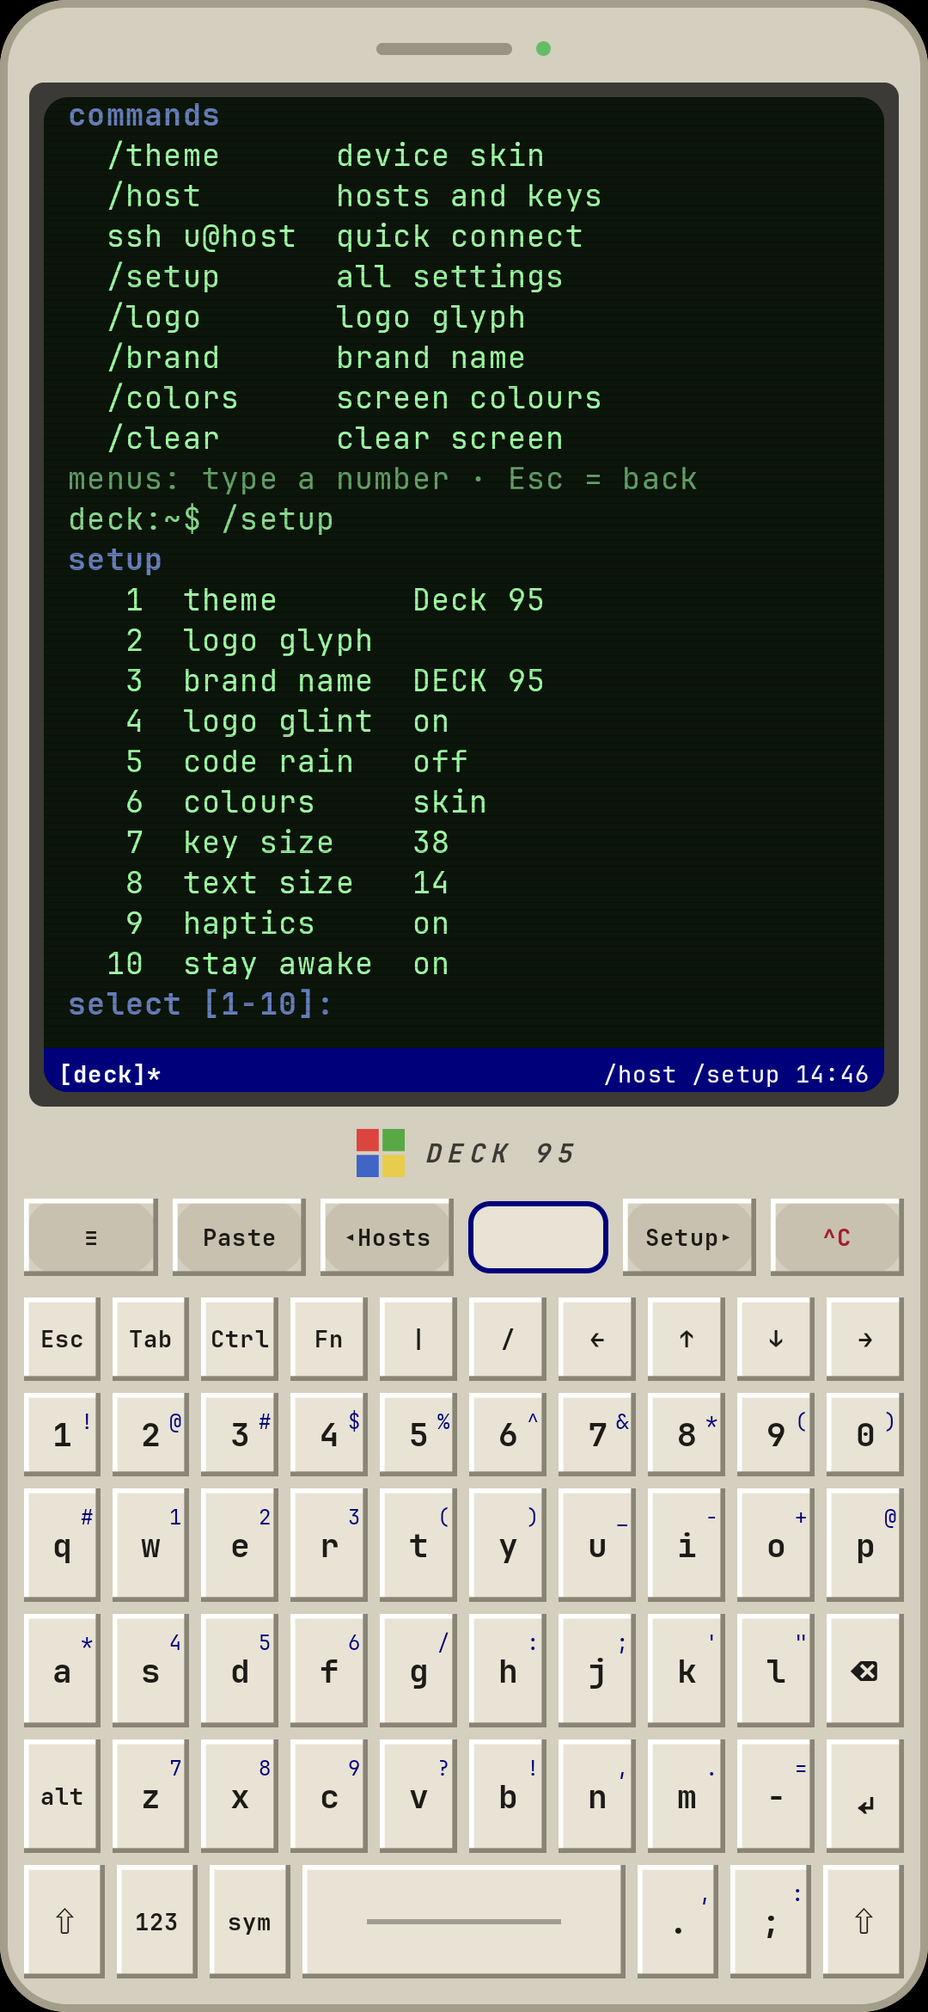
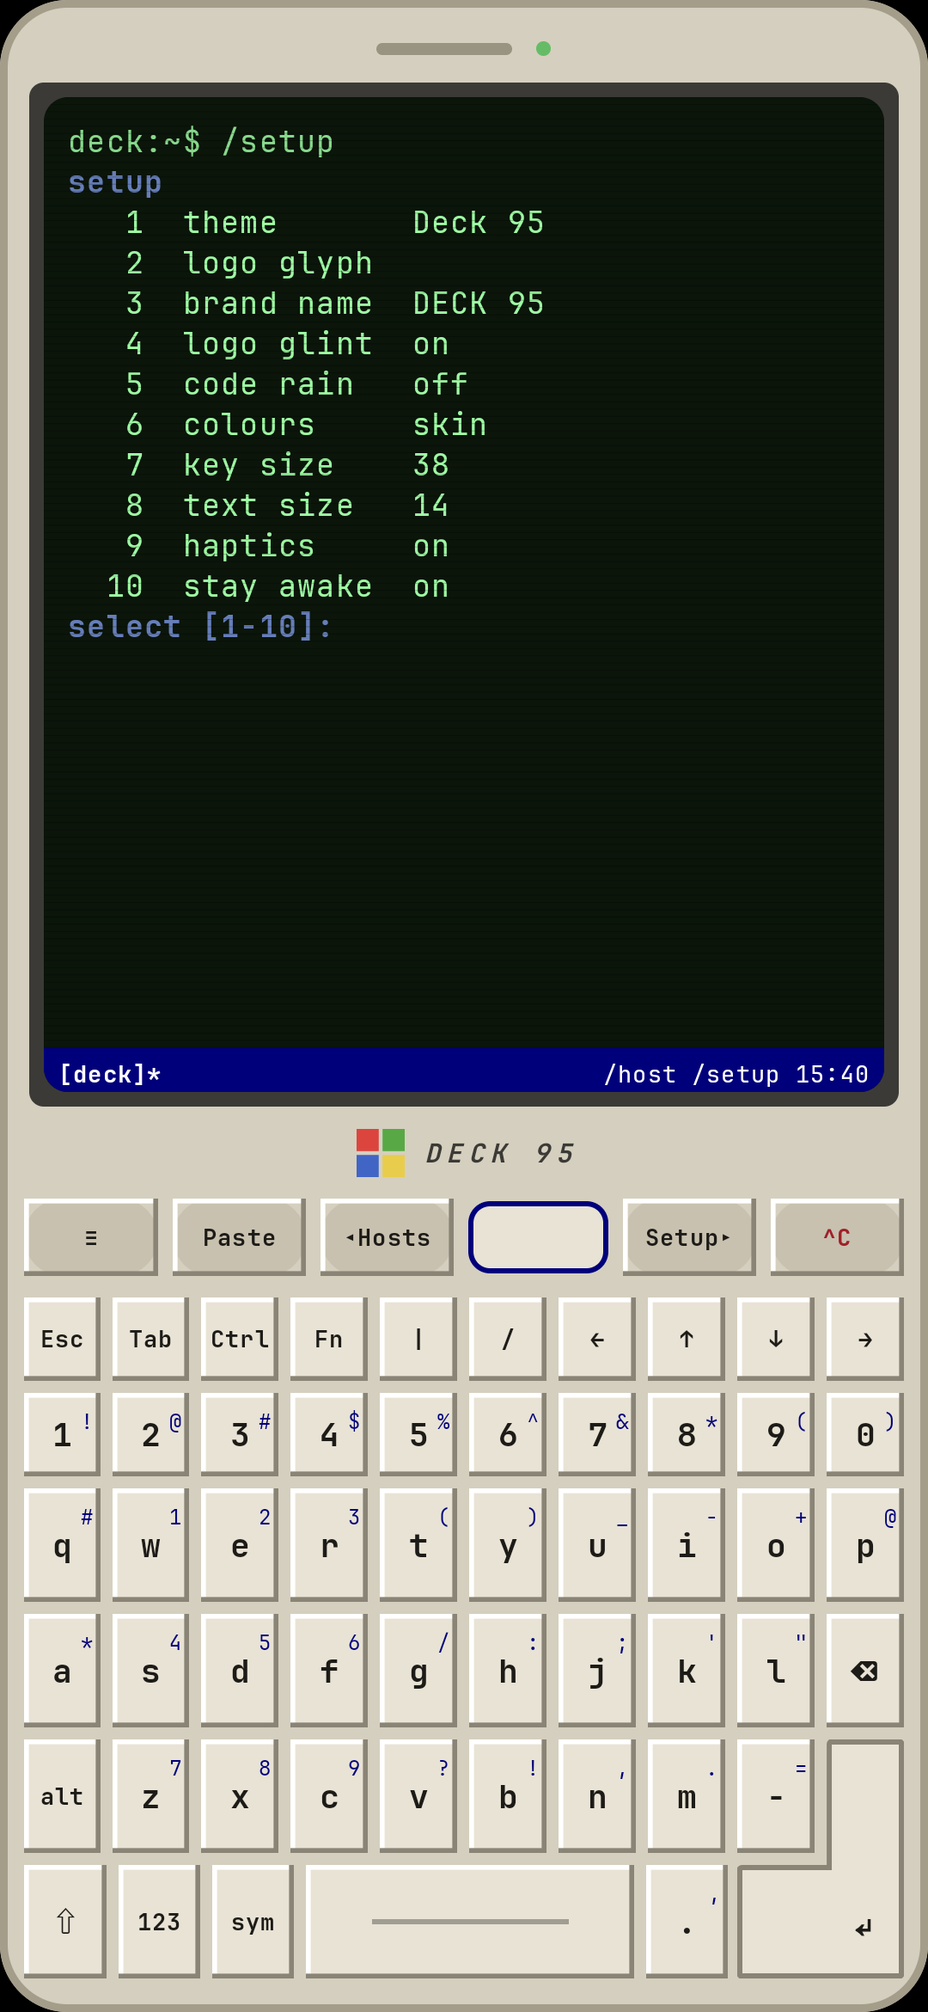
2.1: L-shaped Enter, optional key click, glowing key-press feedback

diff --git a/app/src/main/java/com/deckssh/app/ui/Keyboard.kt b/app/src/main/java/com/deckssh/app/ui/Keyboard.kt
@@ -1,5 +1,7 @@
 package com.deckssh.app.ui
 
+import android.content.Context
+import android.media.AudioManager
 import android.view.HapticFeedbackConstants
 import androidx.compose.animation.core.Animatable
 import androidx.compose.animation.core.FastOutSlowInEasing
@@ -58,6 +60,18 @@ import androidx.compose.ui.unit.Dp
 import androidx.compose.ui.unit.dp
 import androidx.compose.ui.unit.sp
 import androidx.compose.ui.zIndex
+import androidx.compose.foundation.layout.Spacer
+import androidx.compose.foundation.layout.fillMaxHeight
+import androidx.compose.foundation.shape.GenericShape
+import androidx.compose.ui.geometry.Rect
+import androidx.compose.ui.geometry.RoundRect
+import androidx.compose.ui.graphics.Path
+import androidx.compose.ui.graphics.PathOperation
+import androidx.compose.ui.graphics.drawOutline
+import androidx.compose.ui.layout.layout
+import androidx.compose.ui.unit.Constraints
+import androidx.compose.ui.platform.LocalDensity
+import kotlin.math.roundToInt
 import com.deckssh.app.input.InputRouter
 import com.deckssh.app.input.Spec
 import kotlinx.coroutines.Job
@@ -75,6 +89,8 @@ private sealed class K(val w: Float, val kind: Kind) {
     class M(val m: Mod, val label: String, w: Float = 1f) : K(w, Kind.Mod)
     class Raw(val label: String, val bytes: String, w: Float = 1f) : K(w, Kind.Mod)
     class Cmd(val cmd: String, val label: String, w: Float = 2f) : K(w, Kind.Cmd)
+    /** Empty cells the L-shaped Enter key reaches down into. */
+    class Gap(w: Float) : K(w, Kind.Key)
 }
 
 private val altMap = mapOf(
@@ -89,6 +105,8 @@ private fun nums(s: String) = s.map { K.Ch(it.toString(), kind = Kind.Num) }
 
 private val back = K.Sp(Spec.Back, "⌫", repeat = true)
 private val enter = K.Sp(Spec.Enter, "↵")
+/** Enter on the letter and symbol layers: an L that also covers the two cells below it (where ; and ⇧ were). */
+private val bigEnter = K.Sp(Spec.Enter, "↵")
 
 private class Layers {
     var shift by mutableIntStateOf(0)
@@ -138,7 +156,7 @@ private class Layers {
     }
 
     private val bottom = listOf(
-        K.M(Mod.Shift, "⇧"), K.M(Mod.Num, "123"), K.M(Mod.Sym, "sym"), K.Ch(" ", w = 4f), K.Ch(".", ","), K.Ch(";", ":"), K.M(Mod.Shift, "⇧"),
+        K.M(Mod.Shift, "⇧"), K.M(Mod.Num, "123"), K.M(Mod.Sym, "sym"), K.Ch(" ", w = 4f), K.Ch(".", ","), K.Gap(2f),
     )
 
     /** Samsung-style number row over the letters; hold a digit for its shifted symbol. */
@@ -158,14 +176,14 @@ private class Layers {
             digits,
             syms("`~|\\{}[]<>"),
             syms("=&%^#@*()") + back,
-            listOf(K.M(Mod.Alt, "alt")) + syms("!?;:'\",+") + enter,
+            listOf(K.M(Mod.Alt, "alt")) + syms("!?;:'\",+") + bigEnter,
             bottom,
         )
         else -> listOf(
             digits,
             letters("qwertyuiop"),
             letters("asdfghjkl") + back,
-            listOf(K.M(Mod.Alt, "alt")) + letters("zxcvbnm") + K.Ch("-", "=") + enter,
+            listOf(K.M(Mod.Alt, "alt")) + letters("zxcvbnm") + K.Ch("-", "=") + bigEnter,
             bottom,
         )
     }
@@ -181,12 +199,25 @@ fun DeckKeyboard(
     skin: Skin,
     keyHeight: Dp,
     haptics: Boolean,
+    click: Boolean,
     onCommand: (String) -> Unit,
     modifier: Modifier = Modifier,
 ) {
     val st = remember { Layers() }
     val view = LocalView.current
     val buzz = { if (haptics) view.performHapticFeedback(HapticFeedbackConstants.KEYBOARD_TAP) }
+    val audio = remember { view.context.getSystemService(Context.AUDIO_SERVICE) as AudioManager }
+    /** The system keyboard's own click sounds; the two-argument call plays even when touch sounds are off in Settings. */
+    fun sound(k: K?) {
+        if (!click) return
+        val fx = when {
+            k is K.Sp && k.s == Spec.Enter -> AudioManager.FX_KEYPRESS_RETURN
+            k is K.Sp && k.s == Spec.Back -> AudioManager.FX_KEYPRESS_DELETE
+            k is K.Ch && k.c == " " -> AudioManager.FX_KEYPRESS_SPACEBAR
+            else -> AudioManager.FX_KEYPRESS_STANDARD
+        }
+        audio.playSoundEffect(fx, 1f)
+    }
     val bb = skin.cap == CapStyle.BlackBerry
 
     fun fire(k: K, long: Boolean) {
@@ -202,6 +233,7 @@ fun DeckKeyboard(
             is K.Raw -> { router.raw(k.bytes); st.consume() }
             is K.M -> st.tap(k.m)
             is K.Cmd -> { st.menu = false; onCommand(k.cmd) }
+            is K.Gap -> {}
         }
     }
 
@@ -212,8 +244,12 @@ fun DeckKeyboard(
         else -> k.c
     }
 
+    val gapX = if (bb) 3.dp else 5.dp
+    // Space between key rows: BlackBerry has a 7 dp chrome fret, the others a plain 5 dp gap.
+    val gapY = if (bb) 7.dp else 5.dp
+    val ell = with(LocalDensity.current) { Ell(gapX.toPx(), gapY.toPx()) }
     Column(modifier.fillMaxWidth().padding(horizontal = 10.dp), verticalArrangement = Arrangement.spacedBy(if (bb) 0.dp else 5.dp)) {
-        ControlStrip(skin, st.menu, buzz, onMenu = { st.tap(Mod.Menu) }, onCommand = onCommand, onArrow = { router.special(it, false, false) }, onRaw = { router.raw(it) })
+        ControlStrip(skin, st.menu, { buzz(); sound(null) }, onMenu = { st.tap(Mod.Menu) }, onCommand = onCommand, onArrow = { router.special(it, false, false) }, onRaw = { router.raw(it) })
         val all = listOf(st.topRow()) + st.rows()
         all.forEachIndexed { i, row ->
             if (bb) Box(Modifier.fillMaxWidth().padding(horizontal = 3.dp, vertical = 2.dp).height(3.dp).background(Fret, RoundedCornerShape(2.dp)))
@@ -223,8 +259,13 @@ fun DeckKeyboard(
                 st.layer == "num" -> keyHeight * 1.185f
                 else -> keyHeight
             }
-            Row(Modifier.fillMaxWidth().height(h), horizontalArrangement = Arrangement.spacedBy(if (bb) 3.dp else 5.dp)) {
+            // The row holding the L-shaped Enter draws over the row below, which leaves those cells empty.
+            Row(
+                Modifier.fillMaxWidth().height(h).zIndex(if (bigEnter in row) 1f else 0f),
+                horizontalArrangement = Arrangement.spacedBy(gapX),
+            ) {
                 row.forEach { k ->
+                    if (k is K.Gap) { Spacer(Modifier.weight(k.w)); return@forEach }
                     val level = (k as? K.M)?.let { st.level(it.m) } ?: 0
                     val label = when (k) {
                         is K.Ch -> display(k)
@@ -232,12 +273,14 @@ fun DeckKeyboard(
                         is K.M -> if (k.m == Mod.Shift && st.shift == 2) "⇪" else k.label
                         is K.Raw -> k.label
                         is K.Cmd -> k.label
+                        is K.Gap -> ""
                     }
                     val sup = (k as? K.Ch)?.alt?.let { if (st.alt > 0) k.c else it }?.takeIf { i > 0 }
                     KeyCap(
                         k = k, label = label, sup = sup, level = level, small = i == 0 || label.length > 1,
                         bubble = if (k is K.Ch) (if (k.c == " ") "␣" else label) else null,
-                        skin = skin, buzz = buzz, onFire = { long -> fire(k, long) },
+                        skin = skin, buzz = { buzz(); sound(k) }, onFire = { long -> fire(k, long) },
+                        ell = if (k === bigEnter) ell else null,
                     )
                 }
             }
@@ -330,7 +373,7 @@ private fun Modifier.bevel(inverted: Boolean): Modifier = drawBehind {
 @Composable
 private fun RowScope.KeyCap(
     k: K, label: String, sup: String?, level: Int, small: Boolean, bubble: String?,
-    skin: Skin, buzz: () -> Unit, onFire: (Boolean) -> Unit,
+    skin: Skin, buzz: () -> Unit, onFire: (Boolean) -> Unit, ell: Ell? = null,
 ) {
     val scope = rememberCoroutineScope()
     var pressed by remember { mutableStateOf(false) }
@@ -338,6 +381,8 @@ private fun RowScope.KeyCap(
     val bubbleText by rememberUpdatedState(bubble)
     val ring = remember { Animatable(1f) }
     val pop = remember { Animatable(1f) }
+    // Lights the key in the skin's glow colour on press, then fades, so even a quick tap is easy to see.
+    val lit = remember { Animatable(0f) }
     var shownBubble by remember { mutableStateOf("") }
     val press by animateFloatAsState(if (pressed) 1f else 0f, tween(if (pressed) 40 else 110), label = "press")
     val measurer = rememberTextMeasurer()
@@ -355,18 +400,26 @@ private fun RowScope.KeyCap(
         k.kind == Kind.Nav -> skin.glow
         else -> skin.keyFg
     }
-    val shape = if (skin.cap == CapStyle.BlackBerry) RoundedCornerShape(4.dp, 4.dp, 11.dp, 11.dp) else RoundedCornerShape(skin.keyRadius)
+    val corner = if (skin.cap == CapStyle.BlackBerry) 6.dp else skin.keyRadius
+    val shape = when {
+        ell != null -> ell.shape(with(LocalDensity.current) { corner.toPx() })
+        skin.cap == CapStyle.BlackBerry -> RoundedCornerShape(4.dp, 4.dp, 11.dp, 11.dp)
+        else -> RoundedCornerShape(skin.keyRadius)
+    }
 
     Box(
         Modifier
             .weight(k.w)
             .fillMaxSize()
+            .then(if (ell != null) Modifier.ellSize(ell) else Modifier)
             .zIndex(if (pressed || pop.value < 1f) 1f else 0f)
             .semantics { contentDescription = if (k is K.Ch && k.c == " ") "space" else label }
             .drawWithContent {
                 drawContent()
                 // Glow ring that spreads out from the key on every press.
-                if (ring.value < 1f) {
+                if (ring.value < 1f && ell != null) {
+                    drawOutline(shape.createOutline(size, layoutDirection, this), skin.glow.copy(alpha = (1f - ring.value) * 0.9f), style = Stroke((2 + ring.value * 4).dp.toPx()))
+                } else if (ring.value < 1f) {
                     val g = ring.value * 8.dp.toPx()
                     drawRoundRect(
                         skin.glow.copy(alpha = (1f - ring.value) * 0.9f), Offset(-g, -g), Size(size.width + 2 * g, size.height + 2 * g),
@@ -388,7 +441,9 @@ private fun RowScope.KeyCap(
             .pointerInput(k) {
                 awaitEachGesture {
                     awaitFirstDown(requireUnconsumed = false)
+                    val downAt = System.currentTimeMillis()
                     pressed = true
+                    scope.launch { lit.snapTo(1f) }
                     buzz()
                     scope.launch { ring.snapTo(0f); ring.animateTo(1f, tween(320, easing = FastOutSlowInEasing)) }
                     bubbleText?.takeIf { it.isNotEmpty() }?.let { b ->
@@ -411,41 +466,59 @@ private fun RowScope.KeyCap(
                     }
                     val up = waitForUpOrCancellation()
                     job?.cancel()
-                    pressed = false
                     if (up != null && !handled) fire(false)
+                    // Hold the pressed look for at least 110 ms so a fast tap still shows the key going down.
+                    val left = 110 - (System.currentTimeMillis() - downAt)
+                    scope.launch {
+                        if (left > 0) delay(left)
+                        pressed = false
+                        lit.animateTo(0f, tween(320))
+                    }
                 }
             }
             .graphicsLayer {
-                translationY = press * 2.dp.toPx()
-                scaleX = 1f - press * 0.06f; scaleY = 1f - press * 0.06f
+                translationY = press * 3.dp.toPx()
+                scaleX = 1f - press * 0.1f; scaleY = 1f - press * 0.1f
             },
     ) {
         when (skin.cap) {
             CapStyle.Mech -> {
                 Box(Modifier.fillMaxSize().background(Color(0xFF0B0C09), shape).border(1.dp, if (level > 0) skin.glow else Color(0xFF3D4232), shape))
-                Box(Modifier.fillMaxSize().padding(start = 1.dp, end = 1.dp, top = 1.dp, bottom = (5 - 3 * press).dp).background(face, shape)) { Legend(label, sup, ink, small, skin) }
+                Box(Modifier.fillMaxSize().padding(start = 1.dp, end = 1.dp, top = 1.dp, bottom = (5 - 3 * press).dp).background(face, shape)) { Legend(label, sup, ink, small, skin, ell) }
             }
-            CapStyle.Bevel -> Box(Modifier.fillMaxSize().background(face, shape).bevel(pressed || level == 2)) { Legend(label, sup, ink, small, skin) }
+            CapStyle.Bevel -> Box(
+                Modifier.fillMaxSize().background(face, shape)
+                    .then(if (ell != null) Modifier.border(2.dp, if (pressed) Color.White else Color(0xFF8A8473), shape) else Modifier.bevel(pressed || level == 2)),
+            ) { Legend(label, sup, ink, small, skin, ell) }
             CapStyle.Neon -> Box(
                 Modifier.fillMaxSize().background(face, shape)
                     .border(1.dp, if (level > 0 || pressed) skin.glow else Color(0xFF0D4A1B), shape)
                     .drawBehind { if (level > 0 || press > 0f) drawRoundRect(skin.glow.copy(alpha = 0.18f + press * 0.2f), cornerRadius = CornerRadius(skin.keyRadius.toPx())) },
-            ) { Legend(label, sup, ink, small, skin) }
+            ) { Legend(label, sup, ink, small, skin, ell) }
             CapStyle.BlackBerry -> Box(
                 Modifier.fillMaxSize().background(face, shape)
                     .drawBehind { drawLine(Color.White.copy(alpha = 0.16f), Offset(6f, 1f), Offset(size.width - 6f, 1f), 1.dp.toPx()) }
                     .then(if (level > 0) Modifier.border(1.dp, skin.alt, shape) else Modifier),
-            ) { Legend(label, sup, ink, small, skin) }
+            ) { Legend(label, sup, ink, small, skin, ell) }
             CapStyle.Flat -> Box(
                 Modifier.fillMaxSize().background(face, shape).then(if (level > 0) Modifier.border(1.dp, skin.alt, shape) else Modifier),
-            ) { Legend(label, sup, ink, small, skin) }
+            ) { Legend(label, sup, ink, small, skin, ell) }
         }
-        if (press > 0f) Box(Modifier.fillMaxSize().background(Color.White.copy(alpha = press * 0.14f), shape))
+        if (lit.value > 0f) Box(
+            Modifier.fillMaxSize()
+                .background(skin.glow.copy(alpha = lit.value * 0.42f), shape)
+                .border(2.dp, skin.glow.copy(alpha = lit.value), shape),
+        )
     }
 }
 
 @Composable
-private fun androidx.compose.foundation.layout.BoxScope.Legend(label: String, sup: String?, ink: Color, small: Boolean, skin: Skin) {
+private fun androidx.compose.foundation.layout.BoxScope.Legend(label: String, sup: String?, ink: Color, small: Boolean, skin: Skin, ell: Ell? = null) {
+    // On the L-shaped Enter the arrow sits in the bottom-right cell.
+    if (ell != null) {
+        Box(Modifier.align(Alignment.BottomEnd).fillMaxWidth(0.5f).fillMaxHeight(0.5f)) { Legend(label, sup, ink, small, skin) }
+        return
+    }
     if (label.isEmpty()) {
         Box(Modifier.align(Alignment.Center).fillMaxWidth(0.6f).height(2.dp).background(skin.keyFg.copy(alpha = 0.35f)))
         return
@@ -459,4 +532,26 @@ private fun androidx.compose.foundation.layout.BoxScope.Legend(label: String, su
     if (sup != null) {
         Text(sup, Modifier.align(Alignment.TopEnd).padding(top = 1.dp, end = 3.dp), color = skin.alt, fontFamily = Mono, fontSize = 9.5.sp, maxLines = 1)
     }
+}
+
+/** Gaps between key cells in px, so the L-shaped Enter can span two cells across and two rows down. */
+private class Ell(val gx: Float, val gy: Float) {
+    /** Right column over both rows, plus the full bottom row: an ISO Enter key turned upside down. */
+    fun shape(corner: Float) = GenericShape { size, _ ->
+        val r = CornerRadius(corner)
+        val colW = (size.width - gx) / 2
+        val rowH = (size.height - gy) / 2
+        val column = Path().apply { addRoundRect(RoundRect(Rect(size.width - colW, 0f, size.width, size.height), r)) }
+        val bottom = Path().apply { addRoundRect(RoundRect(Rect(0f, size.height - rowH, size.width, size.height), r)) }
+        op(column, bottom, PathOperation.Union)
+    }
+}
+
+/** Lays the key out over its own cell, the cell to its left and both cells below, while taking only its own cell in the row. */
+private fun Modifier.ellSize(ell: Ell): Modifier = layout { m, c ->
+    val gx = ell.gx.roundToInt()
+    val w = c.maxWidth * 2 + gx
+    val h = c.maxHeight * 2 + ell.gy.roundToInt()
+    val p = m.measure(Constraints.fixed(w, h))
+    layout(c.maxWidth, c.maxHeight) { p.place(-(c.maxWidth + gx), 0) }
 }

diff --git a/app/src/main/java/com/deckssh/app/ui/Console.kt b/app/src/main/java/com/deckssh/app/ui/Console.kt
@@ -145,6 +145,7 @@ class Console {
             "glint" -> toggle("logo glint", store.glint, store::changeGlint)
             "rain" -> toggle("code rain", store.rain, store::changeRain)
             "haptics" -> toggle("haptics", store.haptics, store::changeHaptics)
+            "click", "sound" -> toggle("key click", store.click, store::changeClick)
             "awake" -> toggle("keep screen on", store.keepScreenOn, store::changeKeepScreenOn)
             "keys" -> number("key size", 36, 60, store.keyHeight, arg) { store.changeKeyHeight(it) }
             "font", "text" -> number("text size", 8, 24, store.fontSize.toInt(), arg) { store.changeFontSize(it.toFloat()) }
@@ -163,6 +164,7 @@ class Console {
             "/logo" to "logo glyph",
             "/brand" to "brand name",
             "/colors" to "screen colours",
+            "/click" to "key click on/off",
             "/clear" to "clear screen",
         ).forEach { (c, d) -> out("  ${c.padEnd(12)}$d") }
         dim("menus: type a number · Esc = back")
@@ -239,6 +241,7 @@ class Console {
             "key size" to "${store.keyHeight}",
             "text size" to "${store.fontSize.toInt()}",
             "haptics" to on(store.haptics),
+            "key click" to on(store.click),
             "stay awake" to on(store.keepScreenOn),
         ).map { (k, v) -> k.padEnd(12) + v }
         choose("setup", opts, arg) { n ->
@@ -252,7 +255,8 @@ class Console {
                 7 -> run("/keys")
                 8 -> run("/font")
                 9 -> run("/haptics")
-                10 -> run("/awake")
+                10 -> run("/click")
+                11 -> run("/awake")
             }
         }
     }

diff --git a/app/src/main/java/com/deckssh/app/data/Store.kt b/app/src/main/java/com/deckssh/app/data/Store.kt
@@ -98,6 +98,9 @@ class Store(context: Context) {
         private set
     var haptics by mutableStateOf(prefs.getBoolean("haptics", true))
         private set
+    /** Key click sound; off unless the user turns it on. */
+    var click by mutableStateOf(prefs.getBoolean("click", false))
+        private set
     var keepScreenOn by mutableStateOf(prefs.getBoolean("keepOn", true))
         private set
 
@@ -110,6 +113,7 @@ class Store(context: Context) {
     fun changeBrandText(skin: String, text: String) { brandTexts = brandTexts + (skin to text); prefs.edit().putString("brands", brandTexts.encode()).apply() }
     fun changeFontSize(s: Float) { fontSize = s; prefs.edit().putFloat("fontSize", s).apply() }
     fun changeHaptics(on: Boolean) { haptics = on; prefs.edit().putBoolean("haptics", on).apply() }
+    fun changeClick(on: Boolean) { click = on; prefs.edit().putBoolean("click", on).apply() }
     fun changeKeepScreenOn(on: Boolean) { keepScreenOn = on; prefs.edit().putBoolean("keepOn", on).apply() }
 
     fun save(h: Host) {

diff --git a/app/src/main/java/com/deckssh/app/ui/App.kt b/app/src/main/java/com/deckssh/app/ui/App.kt
@@ -236,7 +236,7 @@ private fun Device(store: Store, skin: Skin, screenFg: Color, screenBg: Color, a
                     modifier = Modifier.clickable { consoleRun("/brand") },
                 )
             }
-            DeckKeyboard(router, skin, keyH, store.haptics, ::command)
+            DeckKeyboard(router, skin, keyH, store.haptics, store.click, ::command)
             Spacer(Modifier.height(14.dp))
         }
     }

diff --git a/THEME.md b/THEME.md
@@ -25,7 +25,8 @@ The whole screen is a device: chassis, top bezel with earpiece and LED, screen b
 - Skins are defined in `ui/Skins.kt`. The drawers and panels get a `Palette` derived from the skin (`Skin.ui`).
 - The deck (brand strip plus keyboard) always takes at least 45% of the screen height, and the key height grows to make that happen.
 - A Samsung-style number row (1–0, hold for ! @ # …) sits over the letters and the symbol layer. It is drawn short like the function row.
-- Every press shows feedback: the key dips and scales to 94%, a glow ring spreads out from it, a character bubble pops up, and the phone vibrates.
+- Enter is L-shaped: it covers its own cell plus the two cells below it on the letter and symbol layers.
+- Every press shows feedback: the key lights up in the skin glow colour and fades out over 320 ms, the pressed look lasts at least 110 ms, the key dips and scales to 90%, a glow ring spreads out from it, a character bubble pops up, the phone vibrates, and an optional click plays (`/click`).
 - Each skin's logo glyph and brand name are set with `/logo` and `/brand` in the console.
 - Screen colours either follow the skin (the default) or use one of the 87 palettes.
 
@@ -38,7 +39,7 @@ The whole screen is a device: chassis, top bezel with earpiece and LED, screen b
 - **Radius:** rKey 7, rSm 8, rMd 12, rLg 16 dp.
 - **Type:** caption 11, label 13, body 15, title 18 sp. Fonts: JetBrains Mono for the terminal and key legends, system sans for the rest of the UI.
 - **Touch:** targets are at least 44 dp. Key height can be set from 36 to 64 dp (default 46).
-- **Motion:** the keycap press is instant (no animation), the drawer uses Material's spring, and the caret blinks every 530 ms.
+- **Motion:** the keycap goes down instantly and fades back over 320 ms, the drawer uses Material's spring, and the caret blinks every 530 ms.
 
 ## Do
 

diff --git a/README.md b/README.md
@@ -8,7 +8,7 @@ An Android SSH client that turns your phone into a cyberdeck. The keyboard is pa
 
 ## Features
 
-- **Built-in hardware-style keyboard** that takes at least 45% of the screen. It has a function row, a Samsung-style number row, BlackBerry alt legends, a numpad layer, F1–F12 and a trackpad or trackball for arrow keys. Every key press animates and buzzes.
+- **Built-in hardware-style keyboard** that takes at least 45% of the screen. It has a function row, a Samsung-style number row, a big L-shaped Enter key, BlackBerry alt legends, a numpad layer, F1–F12 and a trackpad or trackball for arrow keys. Every press lights the key up in the skin colour, pushes it down and vibrates, and there is an optional click sound (`/click`).
 - **Five device skins:** BlackBerry Bold, uConsole, Deck 95, Field deck and Matrix (with code rain behind the terminal). The logo glyph and brand name can be changed, and the logo glints.
 - **Everything is typed.** With no session open, the screen is a console with numbered menus:
 
